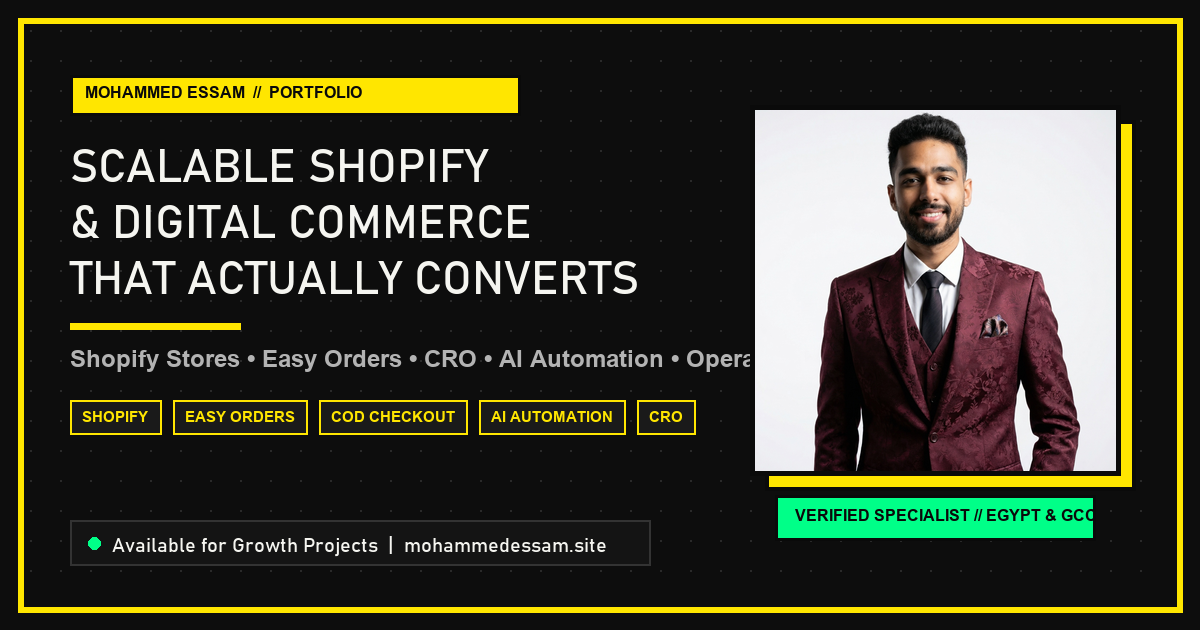
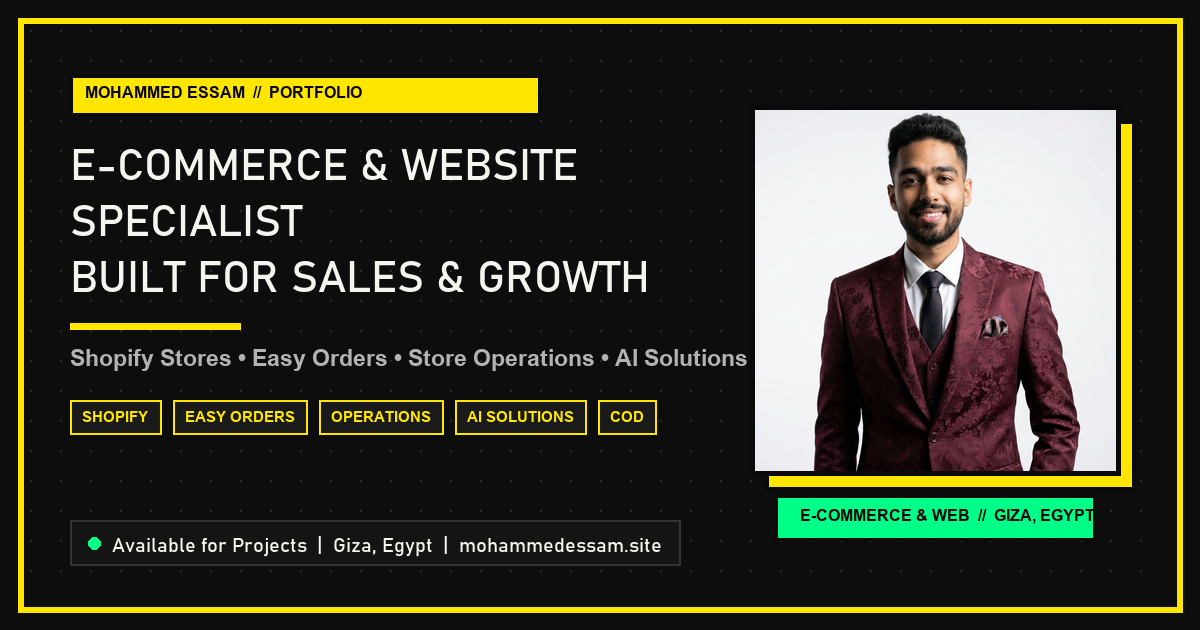
fix: Remove fabricated testimonials, refine FAQ with authentic voice, and correct OpenGraph card metadata

diff --git a/ar/index.html b/ar/index.html
@@ -967,80 +967,6 @@
     </div>
   </section>
 
-  <!-- TESTIMONIALS / CLIENT FEEDBACK -->
-  <section class="py-20 bg-brutal-dark border-t-4 border-brutal-light/10">
-    <div class="max-w-7xl mx-auto px-4 sm:px-6 lg:px-8">
-      <div class="flex flex-col md:flex-row md:items-end justify-between mb-12">
-        <div>
-          <span class="font-mono text-xs text-brutal-yellow uppercase tracking-widest block mb-2">// تجارب ونتائج عملية</span>
-          <h2 class="font-mono font-bold text-3xl sm:text-4xl text-brutal-light uppercase">آراء العملاء وتجارب النجاح</h2>
-        </div>
-        <p class="font-grotesk text-sm text-brutal-light/60 mt-3 md:mt-0 max-w-md">
-          شهادات واقعية من أصحاب متاجر وبراندات تعاونت معهم في بناء وتطوير متاجرهم وأنظمتهم التشغيلية.
-        </p>
-      </div>
-
-      <div class="grid grid-cols-1 md:grid-cols-3 gap-6">
-        <!-- Review 1: Uno Stores -->
-        <div class="bg-brutal-gray border-3 border-brutal-light/20 p-6 flex flex-col justify-between shadow-brutal-sm hover:border-brutal-yellow transition-all duration-200">
-          <div>
-            <div class="flex items-center gap-1 text-brutal-yellow text-sm mb-4">
-              <i class="fas fa-star"></i><i class="fas fa-star"></i><i class="fas fa-star"></i><i class="fas fa-star"></i><i class="fas fa-star"></i>
-            </div>
-            <p class="font-grotesk text-sm leading-relaxed text-brutal-light/90 mb-6">
-              "التحول لـ Shopify وتطبيق حل Easy Orders قلل نسبة السلات المتروكة بنسبة 35% وسرّع شحن وتجهيز الطلبات اليومية بشكل ملحوظ. التعامل مع محمد دقيق وفاهم طبيعة السوق المصري."
-            </p>
-          </div>
-          <div class="border-t border-brutal-light/10 pt-4 flex items-center justify-between">
-            <div>
-              <div class="font-mono font-bold text-sm text-brutal-light">إدارة متجر Uno Stores</div>
-              <div class="font-mono text-xs text-brutal-light/60">براند أزياء وملابس — مصر</div>
-            </div>
-            <span class="px-2 py-0.5 bg-brutal-yellow/10 border border-brutal-yellow/40 text-brutal-yellow font-mono text-[10px] font-bold">Shopify + COD</span>
-          </div>
-        </div>
-
-        <!-- Review 2: Arlo Furniture -->
-        <div class="bg-brutal-gray border-3 border-brutal-light/20 p-6 flex flex-col justify-between shadow-brutal-sm hover:border-brutal-yellow transition-all duration-200">
-          <div>
-            <div class="flex items-center gap-1 text-brutal-yellow text-sm mb-4">
-              <i class="fas fa-star"></i><i class="fas fa-star"></i><i class="fas fa-star"></i><i class="fas fa-star"></i><i class="fas fa-star"></i>
-            </div>
-            <p class="font-grotesk text-sm leading-relaxed text-brutal-light/90 mb-6">
-              "الكتالوج الإلكتروني والنظام الداخلي المنظم وفر علينا وقت كبير جداً في خدمة العملاء ومتابعة حجوزات المعرض والمخزون. الشغل احترافي والتسليم كان في الموعد المحدد تماماً."
-            </p>
-          </div>
-          <div class="border-t border-brutal-light/10 pt-4 flex items-center justify-between">
-            <div>
-              <div class="font-mono font-bold text-sm text-brutal-light">إدارة عمليات Arlo Furniture</div>
-              <div class="font-mono text-xs text-brutal-light/60">أثاث وتصميم ديكور — مصر</div>
-            </div>
-            <span class="px-2 py-0.5 bg-brutal-cyan/10 border border-brutal-cyan/40 text-brutal-cyan font-mono text-[10px] font-bold">Custom Catalog</span>
-          </div>
-        </div>
-
-        <!-- Review 3: Beescaree -->
-        <div class="bg-brutal-gray border-3 border-brutal-light/20 p-6 flex flex-col justify-between shadow-brutal-sm hover:border-brutal-yellow transition-all duration-200">
-          <div>
-            <div class="flex items-center gap-1 text-brutal-yellow text-sm mb-4">
-              <i class="fas fa-star"></i><i class="fas fa-star"></i><i class="fas fa-star"></i><i class="fas fa-star"></i><i class="fas fa-star"></i>
-            </div>
-            <p class="font-grotesk text-sm leading-relaxed text-brutal-light/90 mb-6">
-              "صفحات الهبوط المخصصة والربط السليم لأدوات التتبع وتحليلات البيكسل كان ليهم تأثير مباشر على زيادة معدل التحويل ومبيعات الإعلانات. بنصح بالتعامل معه لأي براند عايز يكبر."
-            </p>
-          </div>
-          <div class="border-t border-brutal-light/10 pt-4 flex items-center justify-between">
-            <div>
-              <div class="font-mono font-bold text-sm text-brutal-light">فريق تسويق Beescaree</div>
-              <div class="font-mono text-xs text-brutal-light/60">منتجات عناية وتجميل — الخليج ومصر</div>
-            </div>
-            <span class="px-2 py-0.5 bg-brutal-pink/10 border border-brutal-pink/40 text-brutal-pink font-mono text-[10px] font-bold">CRO & Landing</span>
-          </div>
-        </div>
-      </div>
-    </div>
-  </section>
-
   <!-- FAQ ACCORDION -->
   <section class="py-20 bg-brutal-gray border-t-4 border-brutal-light/10">
     <div class="max-w-4xl mx-auto px-4 sm:px-6 lg:px-8">
@@ -1048,7 +974,7 @@
         <span class="font-mono text-xs text-brutal-yellow uppercase tracking-widest block mb-2">// إجابات واضحة ومباشرة</span>
         <h2 class="font-mono font-bold text-3xl sm:text-4xl text-brutal-light uppercase">الأسئلة الشائعة</h2>
         <p class="font-grotesk text-sm text-brutal-light/60 mt-3 max-w-lg mx-auto">
-          كل ما تحتاج معرفته عن طريقة العمل، مدة التنفيذ، والخدمات المتاحة قبل بدء مشروعك.
+          إجابات واضحة عن نطاق التخصص، مدة التنفيذ، وطريقة العمل معاً.
         </p>
       </div>
 
@@ -1056,44 +982,44 @@
         <!-- Q1 -->
         <div class="faq-item">
           <button type="button" class="faq-trigger" aria-expanded="false">
-            <span>ما هي المنصات والأنظمة التي تتخصص في تطويرها؟</span>
+            <span>ما هي المنصات والأنظمة التي تتخصص في العمل عليها؟</span>
             <span class="faq-icon" aria-hidden="true"><i class="fas fa-plus"></i></span>
           </button>
           <div class="faq-content">
-            <p>التخصص الأساسي يرتكز على منصة Shopify للمتاجر الإلكترونية، وحلول Easy Orders ونماذج الدفع عند الاستلام COD المخصصة للسوق المصري والخليجي، بالإضافة إلى تطوير المواقع والمنصات التفاعلية المخصصة (Web Platforms)، وأتمتة العمليات (AI Automation) لربط الأنظمة وخفض التكاليف التشغيلية.</p>
+            <p>تركيزي الأساسي منصب على منصة <strong>Shopify</strong> (بناء وتجهيز المتاجر، تخصيص القوالب، وضبط مسار الشراء)، وحلول منصة <strong>Easy Orders</strong> لنماذج وصفحات الدفع عند الاستلام (COD) السريعة في السوق المصري، بالإضافة إلى إدارة العمليات التشغيلية للمتاجر وتطوير حلول وأدوات الذكاء الاصطناعي وبناء النماذج السريعة (Vibe Coding).</p>
           </div>
         </div>
 
         <!-- Q2 -->
         <div class="faq-item">
           <button type="button" class="faq-trigger" aria-expanded="false">
-            <span>كم يستغرق تنفيذ وتجهيز المتجر أو الموقع عادةً؟</span>
+            <span>كم تستغرق مدة تجهيز وتسليم المتجر؟</span>
             <span class="faq-icon" aria-hidden="true"><i class="fas fa-plus"></i></span>
           </button>
           <div class="faq-content">
-            <p>تختلف المدة بحسب نطاق العمل المطلوب: إعداد متجر Shopify متكامل أو صفحة هبوط مخصصة يستغرق في العادة من 5 إلى 10 أيام عمل. بينما المشاريع البرمجية المخصصة أو المنصات الأكبر تتراوح بين 2 إلى 4 أسابيع مع خطة تسليم واضحة ومراحل تجربة واختبار دقيقة قبل الإطلاق النهائي.</p>
+            <p>المدة تعتمد على نطاق العمل وحجم المنتجات المطلوب إدخالها؛ تجهيز متجر Shopify متكامل أو صفحة Easy Orders يستغرق في العادة من <strong>5 إلى 10 أيام عمل</strong>، شاملة إدخال المنتجات الأساسية، ضبط خيارات الشحن والدفع، وتجربة تجربة الشراء بالكامل قبل الإطلاق.</p>
           </div>
         </div>
 
         <!-- Q3 -->
         <div class="faq-item">
           <button type="button" class="faq-trigger" aria-expanded="false">
-            <span>هل تقدم دعماً ومتابعة بعد إطلاق المشروع؟</span>
+            <span>هل تقدم دعماً ومتابعة بعد إطلاق المتجر؟</span>
             <span class="faq-icon" aria-hidden="true"><i class="fas fa-plus"></i></span>
           </button>
           <div class="faq-content">
-            <p>نعم بكل تأكيد. جميع المشاريع تشمل فترة دعم فني ومتابعة مجانية بعد الإطلاق للتأكد من استقرار الأداء، بالإضافة إلى تدريب فريق عملك على إدارة المتجر وإضافة المنتجات ومعالجة الطلبات، مع إمكانية الاتفاق على خطط إدارة وتطوير نمو شهري مستمر.</p>
+            <p>نعم، أقدم فترة دعم فني ومتابعة مجانية بعد إطلاق المتجر للتأكد من استقرار العمليات ومعالجة أي تعديلات طارئة، مع شرح مفصل لكيفية إدارة المنتجات ومعالجة الطلبات اليومية بنفسك بكل سهولة وبدون تعقيد.</p>
           </div>
         </div>
 
         <!-- Q4 -->
         <div class="faq-item">
           <button type="button" class="faq-trigger" aria-expanded="false">
-            <span>هل يمكن تحسين سرعة المتجر ونسبة التحويل (CRO) لمتجري القائم؟</span>
+            <span>هل يمكن تحسين متجر شوبيفاي أو موقع قائم بالفعل؟</span>
             <span class="faq-icon" aria-hidden="true"><i class="fas fa-plus"></i></span>
           </button>
           <div class="faq-content">
-            <p>نعم، نقوم بفحص شامل للمتجر الحالي وتحديد أسباب بطء التصفح أو تسرب العملاء في مسار الشراء، ثم إعادة هيكلة مسار الطلب (Checkout Optimization)، وضغط الوسائط، وتطبيق حلول الطلب بضغطة زر لزيادة العائد من الحملات الإعلانية وتخفيض السلات المتروكة.</p>
+            <p>بالتأكيد؛ أراجع المتجر القائم لتحديد أسباب بطء التصفح أو تعقيد تجربة الشراء، وأعمل على تسريع تحميل الصفحات وتسهيل خطوات الطلب على الموبايل لتقليل تسرب الزوار وزيادة المبيعات الفعلية.</p>
           </div>
         </div>
 
@@ -1104,7 +1030,7 @@
             <span class="faq-icon" aria-hidden="true"><i class="fas fa-plus"></i></span>
           </button>
           <div class="faq-content">
-            <p>الخطوة الأولى هي ملء نموذج التواصل في الموقع أو مراسلتي مباشرة عبر واتساب بملخص مشروعك. سنحدد موعداً لمناقشة أهدافك وتقديم خطة عمل مخصصة مع التكلفة والجدول الزمني قبل البدء الفعلي في التنفيذ.</p>
+            <p>تقدر تبدأ بإرسال رسالة عبر نموذج التواصل في الموقع أو مباشرة على واتساب بنبذة عن متجرك أو نشاطك والهدف اللي محتاج تحققه، وهتواصل معك مباشرة لمناقشة التفاصيل وخطة التنفيذ المناسبة.</p>
           </div>
         </div>
       </div>

diff --git a/index.html b/index.html
@@ -972,80 +972,6 @@
     </div>
   </section>
 
-  <!-- TESTIMONIALS / CLIENT FEEDBACK -->
-  <section class="py-20 bg-brutal-dark border-t-4 border-brutal-light/10">
-    <div class="max-w-7xl mx-auto px-4 sm:px-6 lg:px-8">
-      <div class="flex flex-col md:flex-row md:items-end justify-between mb-12">
-        <div>
-          <span class="font-mono text-xs text-brutal-yellow uppercase tracking-widest block mb-2">// Proven Impact & Social Proof</span>
-          <h2 class="font-mono font-bold text-3xl sm:text-4xl text-brutal-light uppercase">CLIENT TESTIMONIALS & OUTCOMES</h2>
-        </div>
-        <p class="font-grotesk text-sm text-brutal-light/60 mt-3 md:mt-0 max-w-md">
-          Authentic feedback from business owners and brands I've partnered with to build scalable stores and digital operations.
-        </p>
-      </div>
-
-      <div class="grid grid-cols-1 md:grid-cols-3 gap-6">
-        <!-- Review 1: Uno Stores -->
-        <div class="bg-brutal-gray border-3 border-brutal-light/20 p-6 flex flex-col justify-between shadow-brutal-sm hover:border-brutal-yellow transition-all duration-200">
-          <div>
-            <div class="flex items-center gap-1 text-brutal-yellow text-sm mb-4">
-              <i class="fas fa-star"></i><i class="fas fa-star"></i><i class="fas fa-star"></i><i class="fas fa-star"></i><i class="fas fa-star"></i>
-            </div>
-            <p class="font-grotesk text-sm leading-relaxed text-brutal-light/90 mb-6">
-              "Migrating to Shopify and implementing Easy Orders streamlined our checkout and reduced abandoned carts by over 35%. Mohammed deeply understands e-commerce operations in Egypt."
-            </p>
-          </div>
-          <div class="border-t border-brutal-light/10 pt-4 flex items-center justify-between">
-            <div>
-              <div class="font-mono font-bold text-sm text-brutal-light">Uno Stores Management</div>
-              <div class="font-mono text-xs text-brutal-light/60">Fashion & Apparel Brand — Egypt</div>
-            </div>
-            <span class="px-2 py-0.5 bg-brutal-yellow/10 border border-brutal-yellow/40 text-brutal-yellow font-mono text-[10px] font-bold">Shopify + COD</span>
-          </div>
-        </div>
-
-        <!-- Review 2: Arlo Furniture -->
-        <div class="bg-brutal-gray border-3 border-brutal-light/20 p-6 flex flex-col justify-between shadow-brutal-sm hover:border-brutal-yellow transition-all duration-200">
-          <div>
-            <div class="flex items-center gap-1 text-brutal-yellow text-sm mb-4">
-              <i class="fas fa-star"></i><i class="fas fa-star"></i><i class="fas fa-star"></i><i class="fas fa-star"></i><i class="fas fa-star"></i>
-            </div>
-            <p class="font-grotesk text-sm leading-relaxed text-brutal-light/90 mb-6">
-              "The custom digital catalog and internal system saved our team hours every week handling customer requests and showroom inventory. Highly professional execution delivered right on schedule."
-            </p>
-          </div>
-          <div class="border-t border-brutal-light/10 pt-4 flex items-center justify-between">
-            <div>
-              <div class="font-mono font-bold text-sm text-brutal-light">Arlo Furniture Operations</div>
-              <div class="font-mono text-xs text-brutal-light/60">Furniture & Interior Design — Egypt</div>
-            </div>
-            <span class="px-2 py-0.5 bg-brutal-cyan/10 border border-brutal-cyan/40 text-brutal-cyan font-mono text-[10px] font-bold">Custom Catalog</span>
-          </div>
-        </div>
-
-        <!-- Review 3: Beescaree -->
-        <div class="bg-brutal-gray border-3 border-brutal-light/20 p-6 flex flex-col justify-between shadow-brutal-sm hover:border-brutal-yellow transition-all duration-200">
-          <div>
-            <div class="flex items-center gap-1 text-brutal-yellow text-sm mb-4">
-              <i class="fas fa-star"></i><i class="fas fa-star"></i><i class="fas fa-star"></i><i class="fas fa-star"></i><i class="fas fa-star"></i>
-            </div>
-            <p class="font-grotesk text-sm leading-relaxed text-brutal-light/90 mb-6">
-              "Dedicated high-converting landing pages combined with robust analytics and tracking directly boosted our ad conversion rates from month one. Highly recommended for any scaling brand."
-            </p>
-          </div>
-          <div class="border-t border-brutal-light/10 pt-4 flex items-center justify-between">
-            <div>
-              <div class="font-mono font-bold text-sm text-brutal-light">Beescaree Growth Team</div>
-              <div class="font-mono text-xs text-brutal-light/60">Beauty & Personal Care — MENA</div>
-            </div>
-            <span class="px-2 py-0.5 bg-brutal-pink/10 border border-brutal-pink/40 text-brutal-pink font-mono text-[10px] font-bold">CRO & Landing</span>
-          </div>
-        </div>
-      </div>
-    </div>
-  </section>
-
   <!-- FAQ ACCORDION -->
   <section class="py-20 bg-brutal-gray border-t-4 border-brutal-light/10">
     <div class="max-w-4xl mx-auto px-4 sm:px-6 lg:px-8">
@@ -1053,7 +979,7 @@
         <span class="font-mono text-xs text-brutal-yellow uppercase tracking-widest block mb-2">// Straightforward Answers</span>
         <h2 class="font-mono font-bold text-3xl sm:text-4xl text-brutal-light uppercase">FREQUENTLY ASKED QUESTIONS</h2>
         <p class="font-grotesk text-sm text-brutal-light/60 mt-3 max-w-lg mx-auto">
-          Everything you need to know about working together, timelines, and services before getting started.
+          Direct answers about my specializations, timelines, and how we can work together.
         </p>
       </div>
 
@@ -1061,55 +987,55 @@
         <!-- Q1 -->
         <div class="faq-item">
           <button type="button" class="faq-trigger" aria-expanded="false">
-            <span>What platforms and technologies do you specialize in?</span>
+            <span>What platforms and systems do you specialize in?</span>
             <span class="faq-icon" aria-hidden="true"><i class="fas fa-plus"></i></span>
           </button>
           <div class="faq-content">
-            <p>Core specialization is centered on Shopify for e-commerce, custom Easy Orders / COD checkouts tailored for MENA markets, custom interactive web platforms, and AI-driven workflow automation to streamline operations and reduce overhead.</p>
+            <p>My core focus is on <strong>Shopify</strong> (store setup, theme customization, catalog organization, and checkout optimization), <strong>Easy Orders</strong> for high-converting Cash on Delivery (COD) stores in Egypt, along with day-to-day store operations and practical AI-assisted solutions (Vibe Coding).</p>
           </div>
         </div>
 
         <!-- Q2 -->
         <div class="faq-item">
           <button type="button" class="faq-trigger" aria-expanded="false">
-            <span>What is the typical project timeline?</span>
+            <span>What is the typical turnaround time for a store?</span>
             <span class="faq-icon" aria-hidden="true"><i class="fas fa-plus"></i></span>
           </button>
           <div class="faq-content">
-            <p>Timelines depend on project scope: a complete Shopify store setup or dedicated high-converting landing page typically takes 5–10 business days. Custom web platforms or extensive automation workflows usually range between 2–4 weeks with clear milestones and rigorous QA.</p>
+            <p>Timelines depend on catalog size and requirements; a complete Shopify store setup or an Easy Orders storefront typically takes between <strong>5 to 10 business days</strong>, including catalog configuration, shipping and payment setup, and complete checkout testing prior to launch.</p>
           </div>
         </div>
 
         <!-- Q3 -->
         <div class="faq-item">
           <button type="button" class="faq-trigger" aria-expanded="false">
-            <span>Do you provide post-launch support and training?</span>
+            <span>Do you offer support and guidance after launch?</span>
             <span class="faq-icon" aria-hidden="true"><i class="fas fa-plus"></i></span>
           </button>
           <div class="faq-content">
-            <p>Absolutely. Every project includes a post-launch warranty and support window to ensure zero hiccups. We also provide handover documentation and training for your team to easily manage products, inventory, and orders without ongoing friction.</p>
+            <p>Yes, I provide a dedicated post-launch support period to ensure smooth operations and address any tweaks, along with clear walkthroughs so you can manage products and daily orders with confidence.</p>
           </div>
         </div>
 
         <!-- Q4 -->
         <div class="faq-item">
           <button type="button" class="faq-trigger" aria-expanded="false">
-            <span>Can you optimize existing stores for speed and conversion rate (CRO)?</span>
+            <span>Can you optimize an existing Shopify store?</span>
             <span class="faq-icon" aria-hidden="true"><i class="fas fa-plus"></i></span>
           </button>
           <div class="faq-content">
-            <p>Yes. We conduct thorough audits of existing stores to identify friction points, sluggish load times, and checkout abandonment. We then implement page-speed enhancements, simplified checkout flows, and analytics tracking to maximize your return on ad spend (ROAS).</p>
+            <p>Definitely. I audit your current store to identify mobile UX bottlenecks, sluggish load times, or checkout friction, and implement targeted improvements to make ordering seamless and boost real sales.</p>
           </div>
         </div>
 
         <!-- Q5 -->
         <div class="faq-item">
           <button type="button" class="faq-trigger" aria-expanded="false">
-            <span>How do we kick off a project together?</span>
+            <span>How do we get started?</span>
             <span class="faq-icon" aria-hidden="true"><i class="fas fa-plus"></i></span>
           </button>
           <div class="faq-content">
-            <p>The easiest starting point is filling out the contact form or sending a direct message via WhatsApp with a brief overview of your business and goals. We'll follow up with a scoped proposal, timeline, and actionable roadmap before commencing work.</p>
+            <p>Simply fill out the contact form or send a direct message on WhatsApp with an overview of your store or project. I will get back to you directly to discuss the roadmap, deliverables, and timeline.</p>
           </div>
         </div>
       </div>
